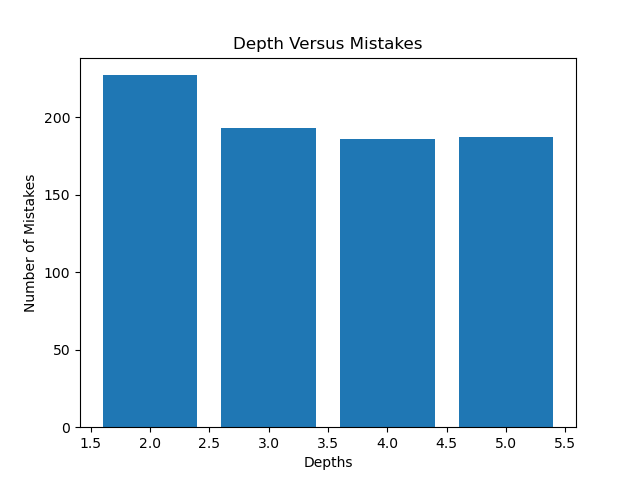
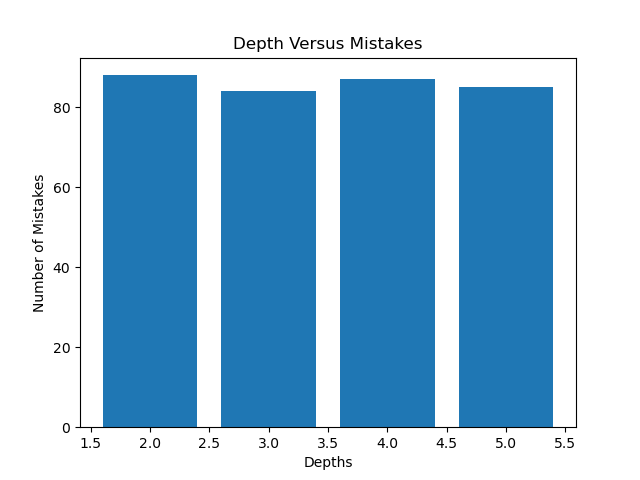
stuff

diff --git a/HW07_Adams_Shin_Trainer.py b/HW07_Adams_Shin_Trainer.py
@@ -573,8 +573,8 @@ def check_node_purity(filename, best_depth, best_min_data_records):
                 if test_index != train_index:
                     train_indexes.append(train_index)
             train_batch = np.concatenate(list(map(lambda x: batches[x], train_indexes)), axis=0)
-            number_of_mistakes = number_of_mistakes + check_mistakes(train_batch, test_batch, best_depth, best_min_data_records, node_purity)
-            print("Node Purity: {0} | Test Index: {1} | TIME: {2:.2f} seconds".format(node_purity, test_index, time.time() - START))
+            number_of_mistakes = number_of_mistakes + check_mistakes(train_batch, test_batch, best_depth, best_min_data_records, (node_purity * 0.01))
+            print("Node Purity: {0} | Test Index: {1} | TIME: {2:.2f} seconds".format((node_purity * 0.01), test_index, time.time() - START))
         error_rate.append(number_of_mistakes)
 
     print("The x value: {0}".format(node_purity_list))
@@ -600,15 +600,15 @@ if __name__ == '__main__':
         print("the parameter is empty")
     else:
         parameter = parameter[0]
-        # depth_range, depth_error_rate, best_depth = check_depth(parameter)
-        # min_data_records_list, data_records_error_rate, best_min_data_records = check_data_records(parameter, best_depth)
-        # node_purity_list, node_purity_error_rate, best_node_purity = check_node_purity(parameter, best_depth, best_min_data_records)
-        # print(depth_range, depth_error_rate, best_depth)
-        # print(min_data_records_list, data_records_error_rate, best_min_data_records)
-        # print(node_purity_list, node_purity_error_rate, best_node_purity)
+        depth_range, depth_error_rate, best_depth = check_depth("train_400.csv")
+        min_data_records_list, data_records_error_rate, best_min_data_records = check_data_records(parameter, best_depth)
+        node_purity_list, node_purity_error_rate, best_node_purity = check_node_purity(parameter, best_depth, best_min_data_records)
+        print(depth_range, depth_error_rate, best_depth)
+        print(min_data_records_list, data_records_error_rate, best_min_data_records)
+        print(node_purity_list, node_purity_error_rate, best_node_purity)
 
         data = csv_to_array(parameter)
-        tree = _grow_tree(data, 4, 25, 70)
+        tree = _grow_tree(data, 4, 25, best_node_purity)
         writeClassifierProgram(tree)
         data = csv_to_array(parameter)
         accuracy = check_accuracy(data, 4, 25, 70)

diff --git a/HW07_Classifier_Adams_Shin.py b/HW07_Classifier_Adams_Shin.py
@@ -16,25 +16,28 @@ def predict(data):
 	file_object = open(classifications_filename, "wt")  # create file
 
 	for row in data:
-		if( row[2] < 10.890758167613635):
-			if( row[6] < 0.5):
-				if( row[2] < 7.0625):
+		if( row[2] < 9.8814697265625):
+			if( row[3] < 8.86363636363636):
+				if( row[2] < 6.9449573863636385):
 					class_val="+1"
 				else:
 					class_val="+1"
 			else:
-				if( row[3] < 5.875):
+				if( row[2] < 8.990411931818183):
 					class_val="+1"
 				else:
 					class_val="+1"
 		else:
-			if( row[3] < 10.971058238636369):
-				if( row[2] < 15.83203125):
+			if( row[3] < 9.816938920454549):
+				if( row[4] < 5.863636363636367):
 					class_val="-1"
 				else:
 					class_val="-1"
 			else:
-				class_val="-1"
+				if( row[4] < 4.136363636363636):
+					class_val="-1"
+				else:
+					class_val="+1"
 		print(class_val)
 		file_object.write(class_val + '\n')
 	file_object.close()
